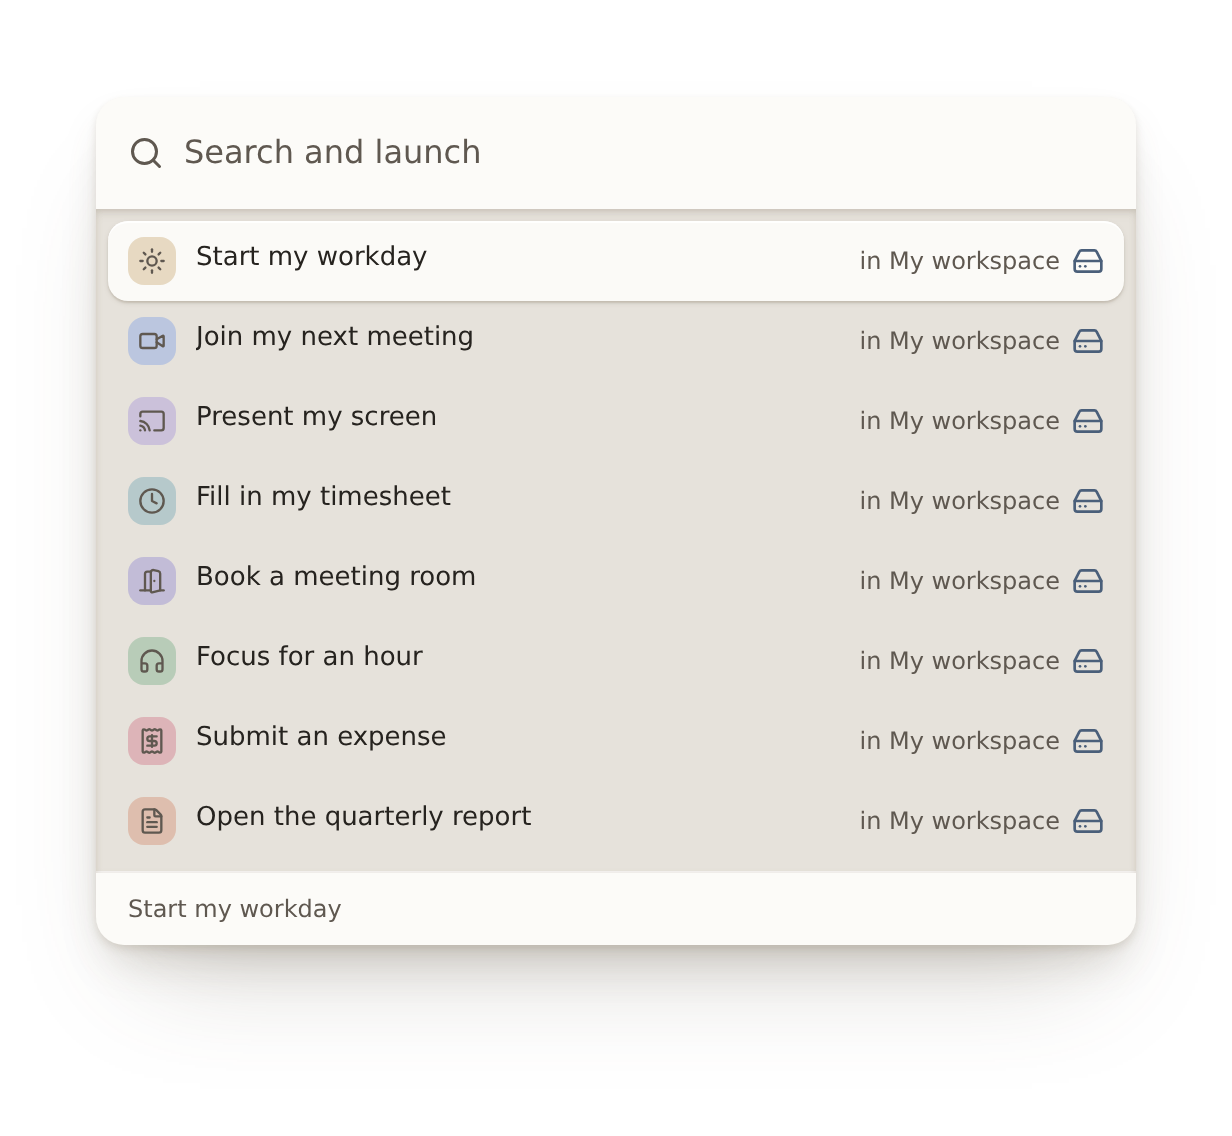
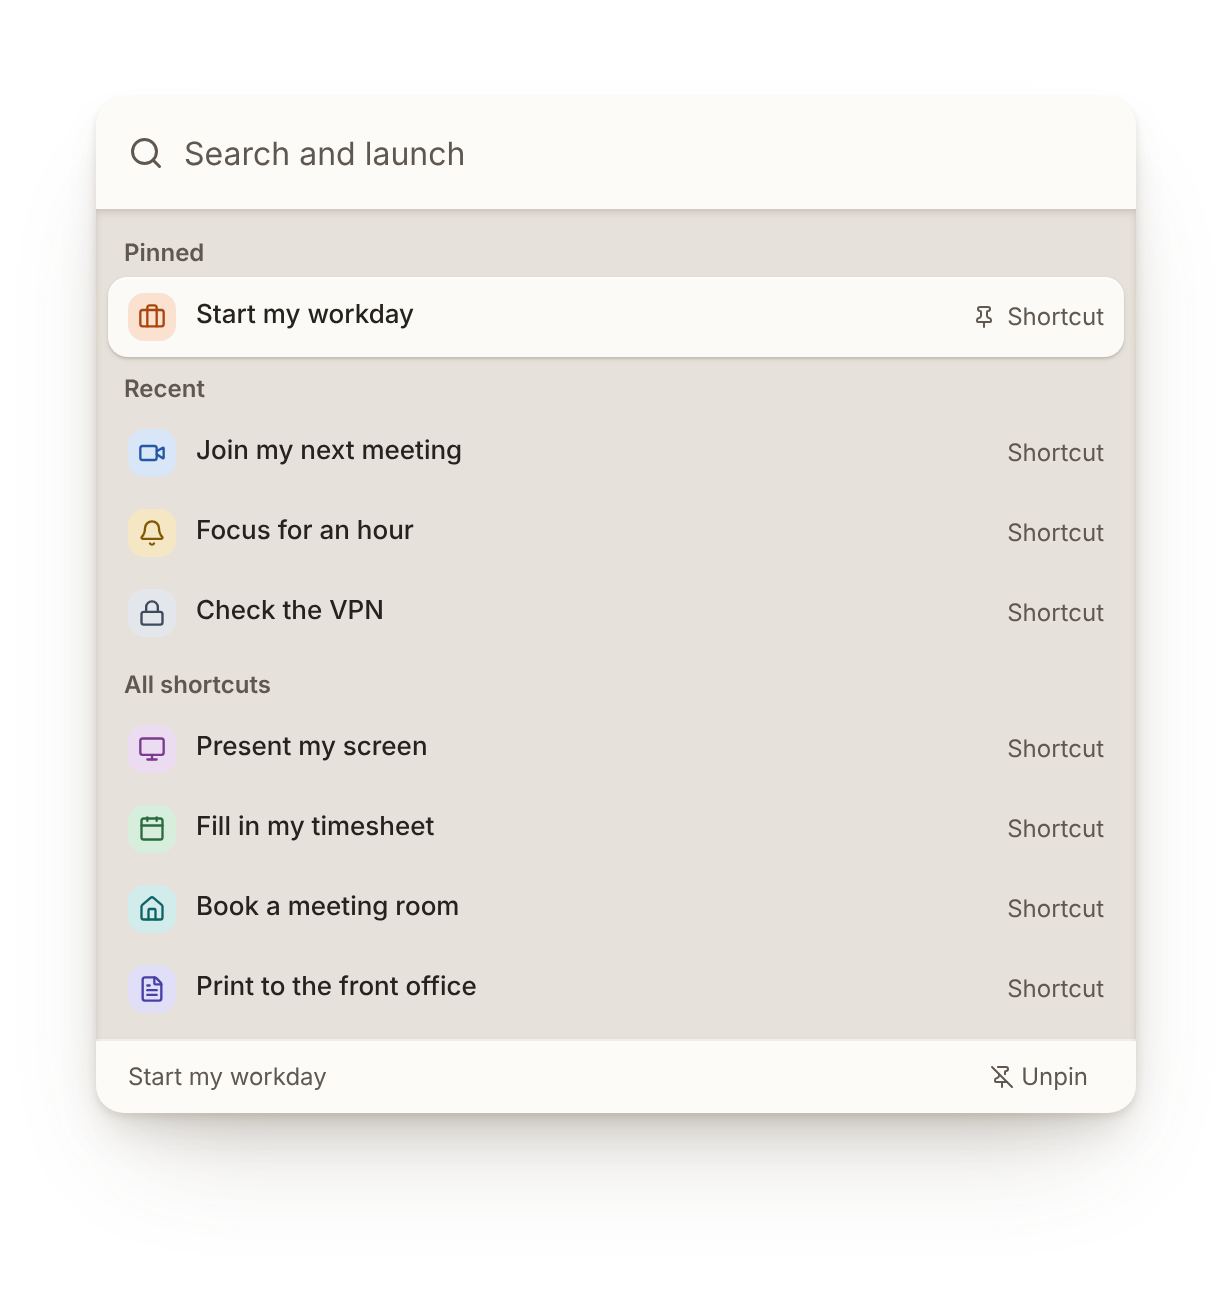
Refresh the product screenshots from the current app
Re-rendered from the client's screen gallery on the shortcut model, and
renamed for what they now show:

- app-browse -> app-shortcuts: the Shortcuts library
- item-detail -> editor-steps: Start my workday in the editor
- item-edit -> editor-branches: Check the VPN, with an If and a menu
- zap, overlay-list and overlay-grid re-rendered

Sizes and alt text in content/site.ts match the new files. The Features
tour's editor step now describes paths rather than reordering, the home
caption describes the new picture, and i18n/source.json is re-extracted
(8 strings replaced; their translations fall back to English until redone).

Claude-Session: https://claude.ai/code/session_01RTb7L6LaoVkwnZaYVjHyyq

diff --git a/worker/content/site.ts b/worker/content/site.ts
@@ -117,33 +117,33 @@ export const SCREENSHOT_BASE = "/screenshots";
 export const SCREENSHOTS = {
   "overlay-list": {
     width: 1232,
-    height: 1136,
-    alt: "The Zipr launcher: a search box above a list of shortcuts — Start my workday, Join my next meeting, Present my screen, Fill in my timesheet and more — each with its own icon and colour.",
+    height: 1304,
+    alt: "The Zipr launcher: a search box above a list of shortcuts — Start my workday pinned at the top, then Join my next meeting, Focus for an hour, Present my screen, Fill in my timesheet and more — each with its own icon and colour.",
   },
   "overlay-grid": {
     width: 1232,
     height: 1060,
     alt: "The Zipr launcher in its grid layout: a search box above tiles for Start my workday, Join my next meeting, Present my screen, Fill in my timesheet, Book a meeting room and Focus for an hour, each with an icon and a one-line description.",
   },
-  "item-detail": {
-    width: 2192,
-    height: 1280,
-    alt: "A Zipr shortcut, Deploy to production, tagged production and needs approval, with three steps: ask for a yes or no, run a command, and open a web address.",
+  "editor-steps": {
+    width: 2592,
+    height: 2014,
+    alt: "The Zipr shortcut editor open on Start my workday, which starts on its own at 08:45 on weekdays. Three steps run in order — open my email, open my calendar, open the stand-up notes — and the last is selected, with its web address and what to do if it fails beside it. Below, the shortcut's recent runs.",
   },
-  "item-edit": {
-    width: 2192,
-    height: 1720,
-    alt: "Editing the Deploy to production shortcut: its name, category, description, colour, icon and tags, then its three steps in order, each with its own on switch, above Cancel, Save draft and Save and send.",
+  "editor-branches": {
+    width: 2992,
+    height: 2014,
+    alt: "The Zipr shortcut editor open on Check the VPN. After a check, an If step sends the shortcut down two paths: when the VPN is connected it opens the intranet, otherwise it asks what to do — connect, open the help page or leave it. The If's condition is set out beside it.",
   },
-  "app-browse": {
-    width: 3232,
-    height: 1728,
-    alt: "The Zipr app's Browse screen: a sidebar of sections, the Everyday collection's shortcuts in a list, and an inspector beside it showing Start my workday's three steps with Launch, Open and Edit.",
+  "app-shortcuts": {
+    width: 2752,
+    height: 1808,
+    alt: "The Zipr app's Shortcuts screen: a sidebar of sections, and the list of your shortcuts — Start my workday, Join my next meeting, Present my screen, Fill in my timesheet and more — each with its number of steps and when it last changed, above the shortcuts shared with you by your team.",
   },
   zap: {
     width: 2392,
-    height: 2454,
-    alt: "Zap building an item called Morning focus. On the left, the conversation: a request in plain words, Zap's reply and the changes it made, a follow-up asking for do not disturb, and a test where every step succeeded and the command shows as started. On the right, the six steps it built, a note that one runs a program, the assumption Zap made, and Test and Save item.",
+    height: 2414,
+    alt: "Zap building a shortcut called Morning focus. On the left, the conversation: a request in plain words, Zap's reply and the changes it made, a follow-up asking for do not disturb, and a test where every step succeeded and the program shows as started. On the right, the six steps it built, a note that one runs a program, the assumption Zap made, and Test and Save as shortcut.",
   },
 } as const;
 

diff --git a/worker/views/pages/Features.tsx b/worker/views/pages/Features.tsx
@@ -74,16 +74,16 @@ const TOUR: { shot: ScreenshotId; eyebrow: string; title: string; body: string }
     body: "Press your shortcut from anywhere, type, and press Return.",
   },
   {
-    shot: "item-detail",
+    shot: "editor-steps",
     eyebrow: "Every shortcut",
     title: "Read it before you run it",
     body: "See every step a shortcut takes before you run it.",
   },
   {
-    shot: "item-edit",
+    shot: "editor-branches",
     eyebrow: "The editor",
-    title: "Change it in one place",
-    body: "Reorder steps, switch one off, or make the shortcut ask first.",
+    title: "Let it take a different path",
+    body: "Add an If or a menu, and the shortcut takes one path or another.",
   },
 ];
 
@@ -110,7 +110,7 @@ export const FeaturesPage: FC = () => (
           title="Build it once. Use it whenever you need it."
           lede="What Zipr does on its own for free, and what it adds when your team shares a server."
         />
-        <Screenshot id="app-browse" eager class="mx-auto mt-4 max-w-5xl" />
+        <Screenshot id="app-shortcuts" eager class="mx-auto mt-4 max-w-5xl" />
       </Container>
     </Section>
 

diff --git a/worker/views/pages/Home.tsx b/worker/views/pages/Home.tsx
@@ -293,9 +293,9 @@ export const HomePage: FC<{ app: AppConfig }> = ({ app }) => {
           </div>
 
           <figure class="mt-12 lg:mt-16">
-            <Screenshot id="item-detail" class="mx-auto max-w-4xl" />
+            <Screenshot id="editor-steps" class="mx-auto max-w-4xl" />
             <figcaption class="mt-4 text-center text-sm text-muted-foreground text-pretty">
-              One shortcut, three steps: ask first, run a command, open a page.
+              One shortcut, three steps, and it starts by itself every weekday at 8:45.
             </figcaption>
           </figure>
         </Container>

diff --git a/worker/views/pages/Teams.tsx b/worker/views/pages/Teams.tsx
@@ -132,7 +132,7 @@ export const TeamsPage: FC = () => (
             </ul>
           </div>
           <div class="lg:col-span-7">
-            <Screenshot id="app-browse" />
+            <Screenshot id="app-shortcuts" />
           </div>
         </div>
       </Container>
